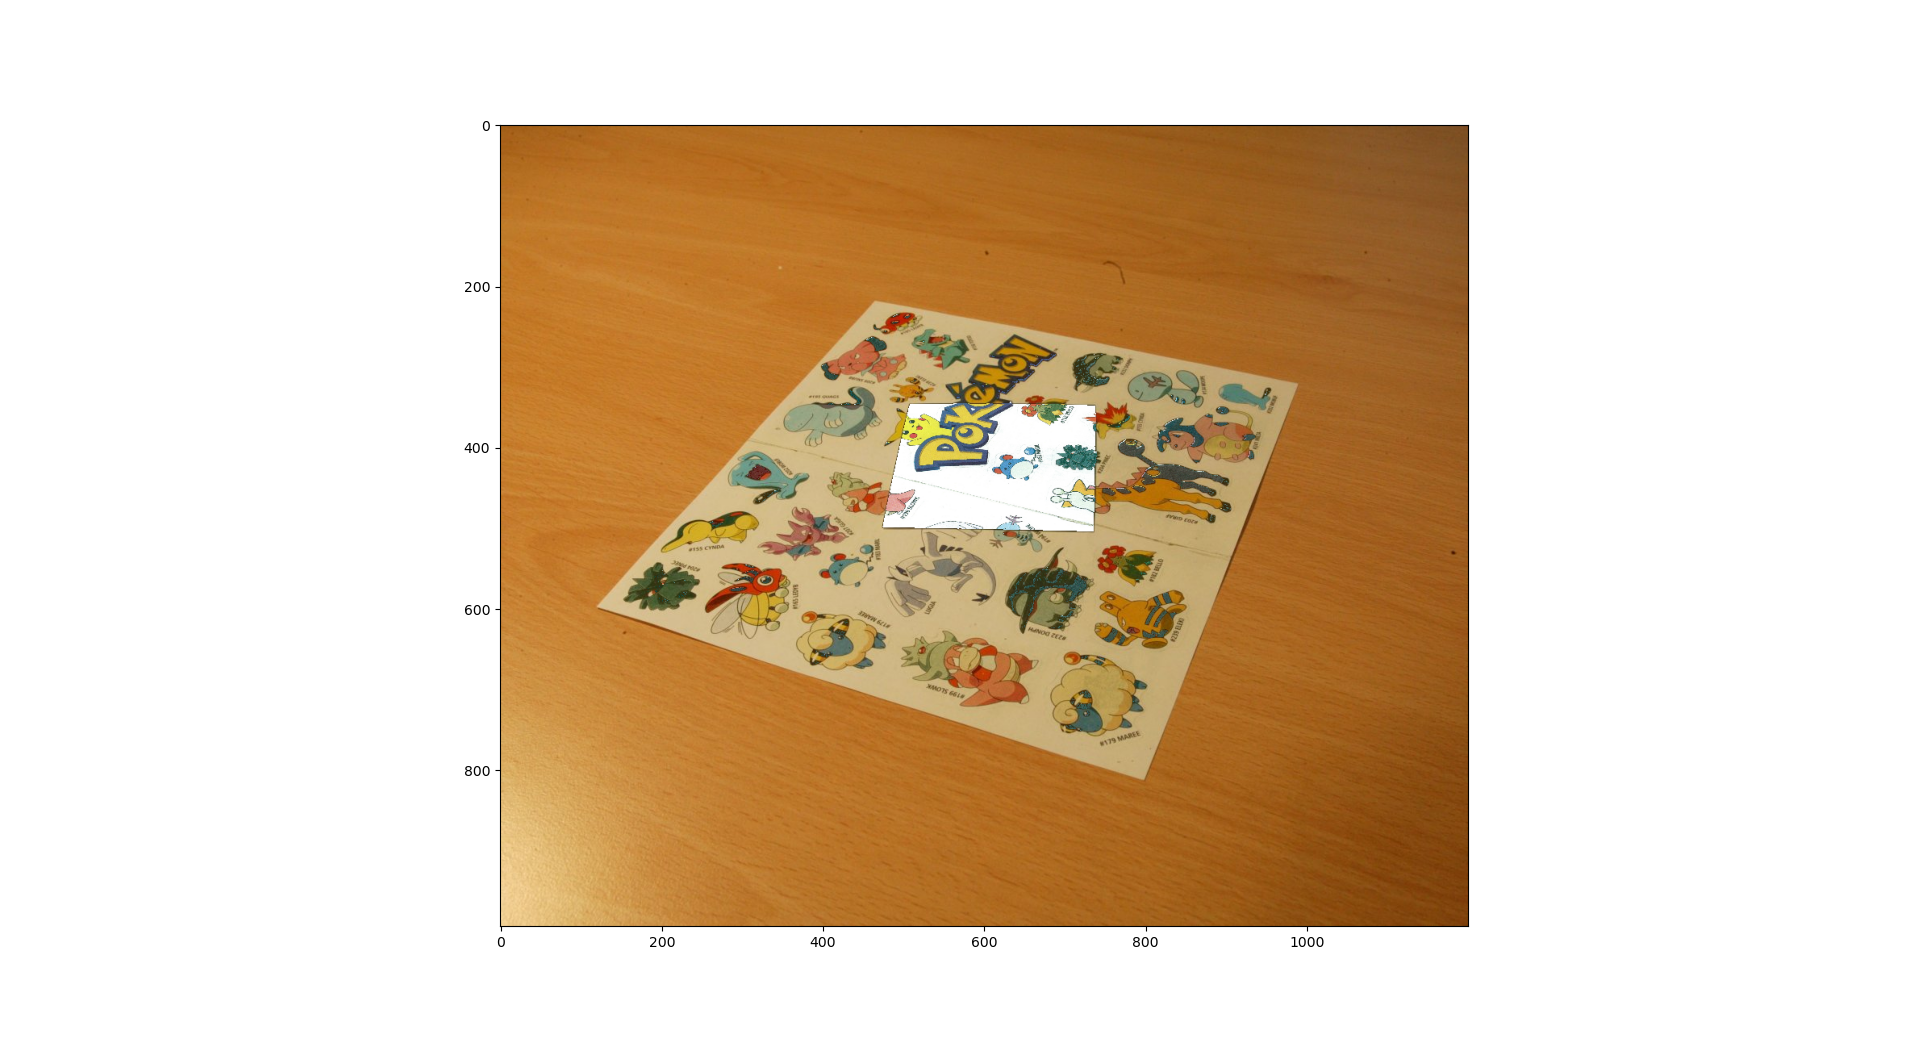
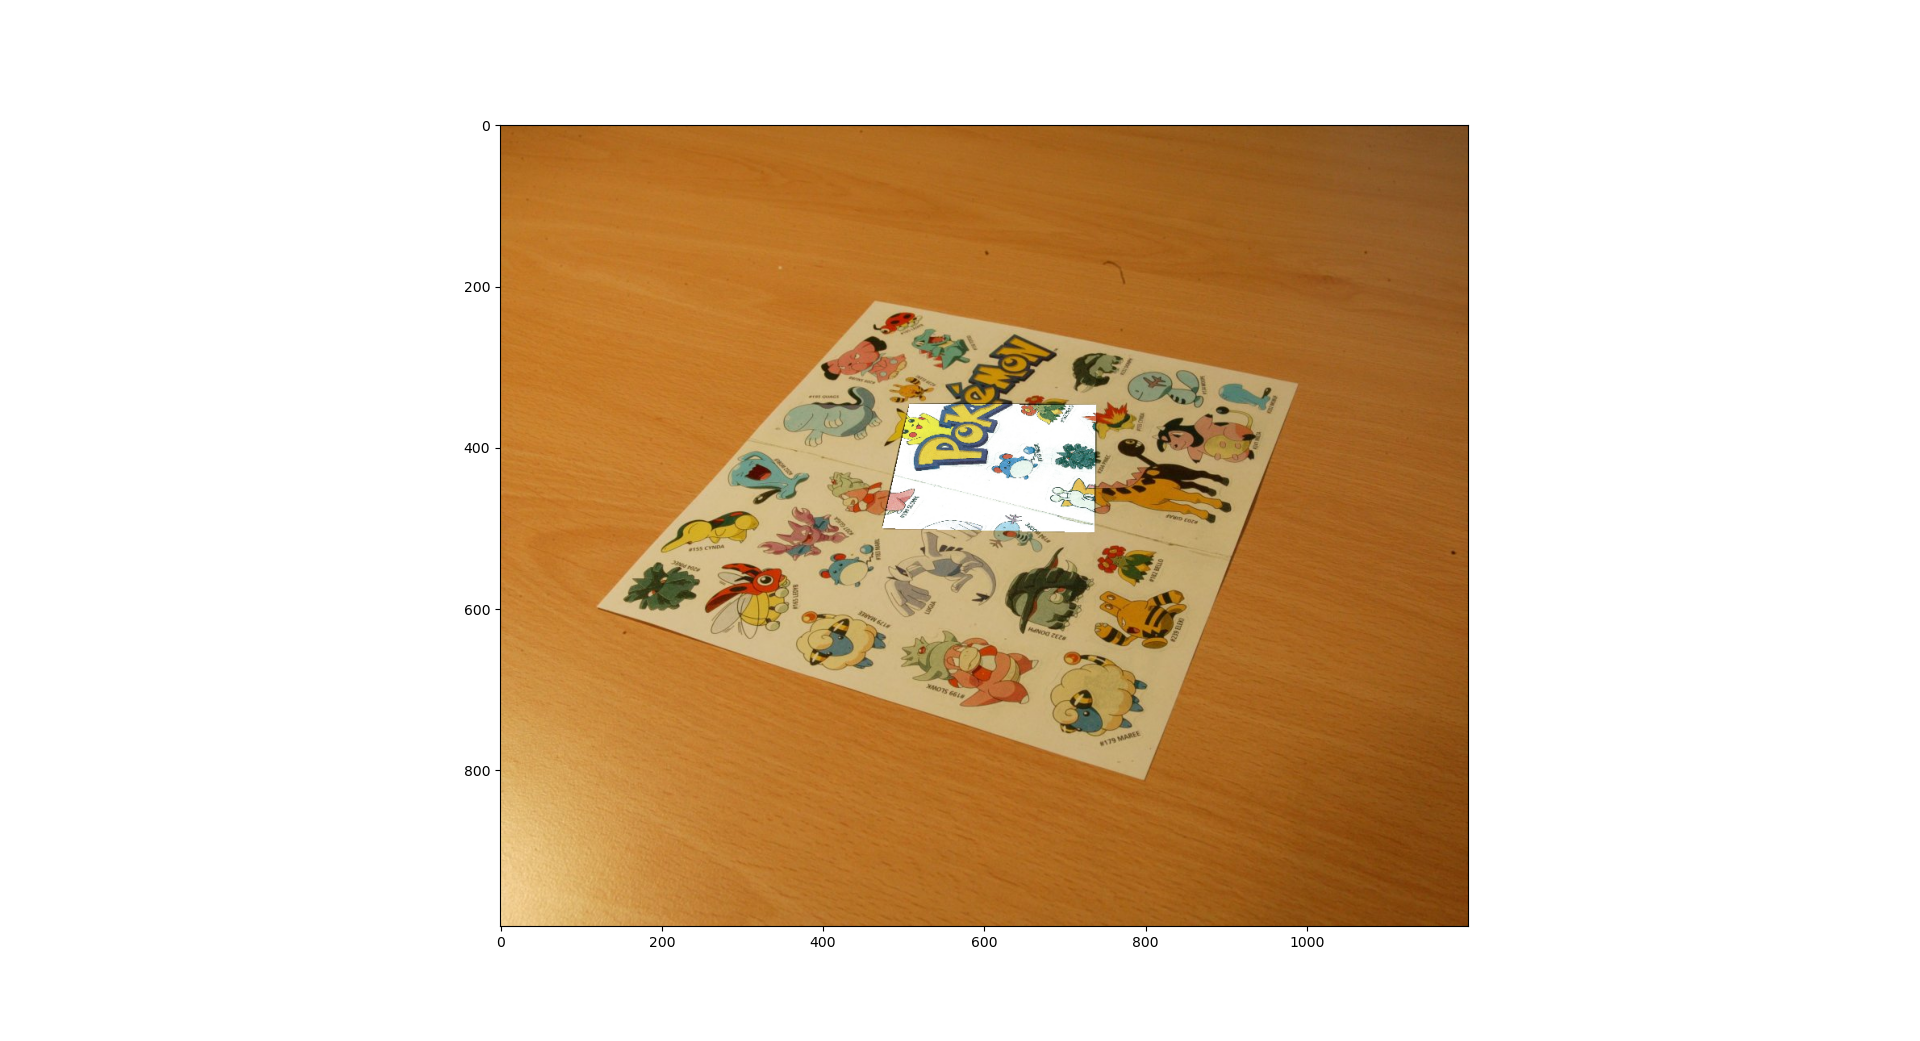
replace threshold with line equation

diff --git a/hw5_homography/hw05.py b/hw5_homography/hw05.py
@@ -76,8 +76,31 @@ def u2h_optim(u, u0):
     return res
 
 
-def color_normalization(img0, img1, H):
-    pass
+# def color_normalization(img, img0, u, u0):
+#     """
+#     Red + Green == Yellow
+#     :return:
+#     """
+#     tmp = [[], []]
+#     correction = {}
+#     for point in u.T:
+#         # print(point)
+#         tmp[0].append(tuple(img[round(point[1])][round(point[0])]))
+#     for point in u0.T:
+#         # print(point)
+#         tmp[1].append(tuple(img0[round(point[1])][round(point[0])]))
+#     for i in range(len(tmp[0])):
+#         correction[tmp[0][i]] = list(np.array(tmp[1][i]) - tmp[0][i])
+#     r, g, b = 0, 0, 0
+#     for i in correction.values():
+#         r += i[0]
+#         g += i[1]
+#         b += i[2]
+#     r /= len(u[0])
+#     g /= len(u[0])
+#     b /= len(u[0])
+#     print(r, g, b)
+#     return r, g, b
 
 
 if __name__ == "__main__":
@@ -107,6 +130,10 @@ if __name__ == "__main__":
     C = [[474.4, 508.2, 739.3, 737.2],
          [501.7, 347.0, 348.7, 506.7]]
 
+    U0 = [[i - 1 for i in U0[0]], [i - 1 for i in U0[1]]]
+    U = [[i - 1 for i in U[0]], [i - 1 for i in U[1]]]
+    C = [[i - 1 for i in C[0]], [i - 1 for i in C[1]]]
+
     _, H, inx = u2h_optim(U, U0)
 
     sio.savemat('05_homography.mat', {
@@ -126,9 +153,22 @@ if __name__ == "__main__":
 
     # Step 2
 
+    # m1 = (C[1][1] - C[1][0]) / (C[0][1] - C[0][0])
+    # m2 = (C[1][2] - C[1][1]) / (C[0][2] - C[0][1])
+    # m3 = (C[1][3] - C[1][2]) / (C[0][3] - C[0][2])
+    # m4 = (C[1][0] - C[1][3]) / (C[0][0] - C[0][3])
+    # b1 = C[1][0] - (m1 * C[0][0])
+    # b2 = C[1][1] - (m2 * C[0][1])
+    # b3 = C[1][2] - (m3 * C[0][2])
+    # b4 = C[1][3] - (m4 * C[0][3])
+    #
     # for i in range(len(img_10)):
     #     for j in range(len(img_10[0])):
-    #         if sum(img_10[i][j]) / 3 < 35:
+    #         if ((i > j * m1 + b1) and
+    #                 (i > j * m2 + b2) and
+    #                 (i < j * m3 + b3) and
+    #                 (i < j * m4 + b4)):
+    #             # if sum(img_10[i][j]) / 6 < 35:
     #             tmp = H @ np.array([j, i, 1])
     #             tmp /= tmp[-1]
     #             tmp = tmp[:-1]
@@ -140,7 +180,6 @@ if __name__ == "__main__":
     #                 t = img_00[round(tmp[1])][round(tmp[0])]
     #                 img_10[i][j] = t
     #
-    # black_points = np.array(black_points).T
     # plt.imshow(img_10)
     # plt.show()
     # fig.savefig("05_corrected.png")
